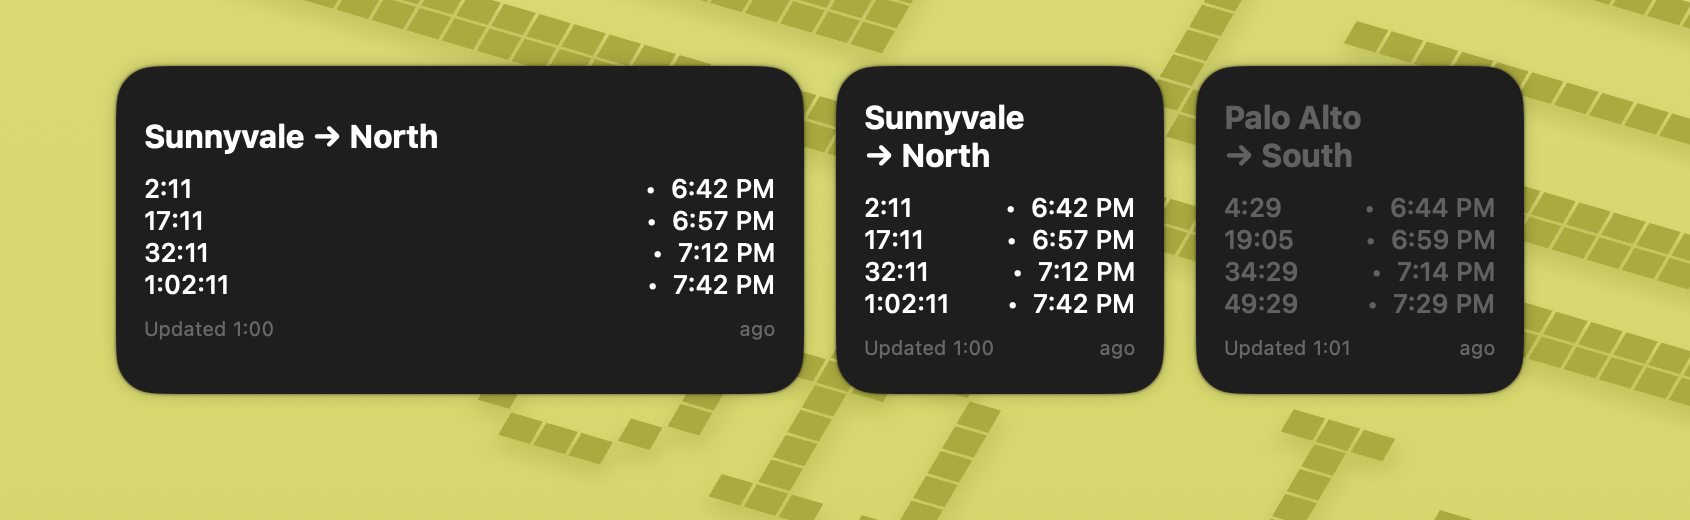
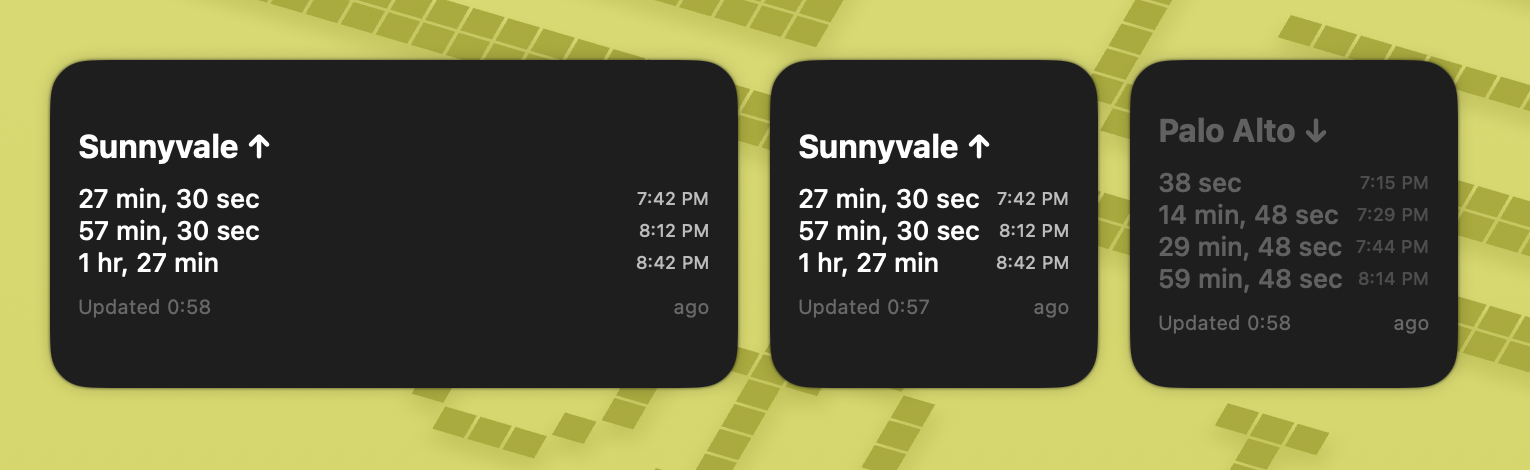
Prettier formatting

diff --git a/Palo Alto South.js b/Palo Alto South.js
@@ -77,7 +77,7 @@ async function createWidget() {
   w.backgroundColor = new Color("#1E1E1E");
   w.setPadding(14, 14, 14, 14);
 
-  const title = w.addText("Palo Alto → South");
+  const title = w.addText("Palo Alto ↓");
   title.font = Font.boldSystemFont(16);
   title.textColor = Color.white();
   title.textOpacity = opacity;
@@ -94,7 +94,7 @@ async function createWidget() {
       const rowStack = w.addStack();
       rowStack.layoutHorizontally();
       rowStack.centerAlignContent();
-      rowStack.spacing = 0;
+      rowStack.spacing = 4;
 
       // Check if train has already departed (negative time)
       const isPast = d.departureTime < new Date();
@@ -102,20 +102,16 @@ async function createWidget() {
 
       // Use dynamic timer that updates continuously
       const depDate = rowStack.addDate(d.departureTime);
-      depDate.applyTimerStyle();
+      depDate.applyRelativeStyle();
       depDate.font = Font.mediumSystemFont(13);
       depDate.textColor = rowColor;
       depDate.textOpacity = opacity;
 
-      const separator = rowStack.addText("  •  ");
-      separator.font = Font.mediumSystemFont(13);
-      separator.textColor = rowColor;
-      separator.textOpacity = opacity;
-
+      // Time next to it, much smaller
       const timeText = rowStack.addText(d.timeStr);
-      timeText.font = Font.mediumSystemFont(13);
+      timeText.font = Font.systemFont(9);
       timeText.textColor = rowColor;
-      timeText.textOpacity = opacity;
+      timeText.textOpacity = opacity * 0.7;
     }
   }
 

diff --git a/Sunnyvale North.js b/Sunnyvale North.js
@@ -77,7 +77,7 @@ async function createWidget() {
   w.backgroundColor = new Color("#1E1E1E");
   w.setPadding(14, 14, 14, 14);
 
-  const title = w.addText("Sunnyvale → North");
+  const title = w.addText("Sunnyvale ↑");
   title.font = Font.boldSystemFont(16);
   title.textColor = Color.white();
   title.textOpacity = opacity;
@@ -94,7 +94,7 @@ async function createWidget() {
       const rowStack = w.addStack();
       rowStack.layoutHorizontally();
       rowStack.centerAlignContent();
-      rowStack.spacing = 0;
+      rowStack.spacing = 4;
 
       // Check if train has already departed (negative time)
       const isPast = d.departureTime < new Date();
@@ -102,20 +102,16 @@ async function createWidget() {
 
       // Use dynamic timer that updates continuously
       const depDate = rowStack.addDate(d.departureTime);
-      depDate.applyTimerStyle();
+      depDate.applyRelativeStyle();
       depDate.font = Font.mediumSystemFont(13);
       depDate.textColor = rowColor;
       depDate.textOpacity = opacity;
 
-      const separator = rowStack.addText("  •  ");
-      separator.font = Font.mediumSystemFont(13);
-      separator.textColor = rowColor;
-      separator.textOpacity = opacity;
-
+      // Time next to it, much smaller
       const timeText = rowStack.addText(d.timeStr);
-      timeText.font = Font.mediumSystemFont(13);
+      timeText.font = Font.systemFont(9);
       timeText.textColor = rowColor;
-      timeText.textOpacity = opacity;
+      timeText.textOpacity = opacity * 0.7;
     }
   }
 
